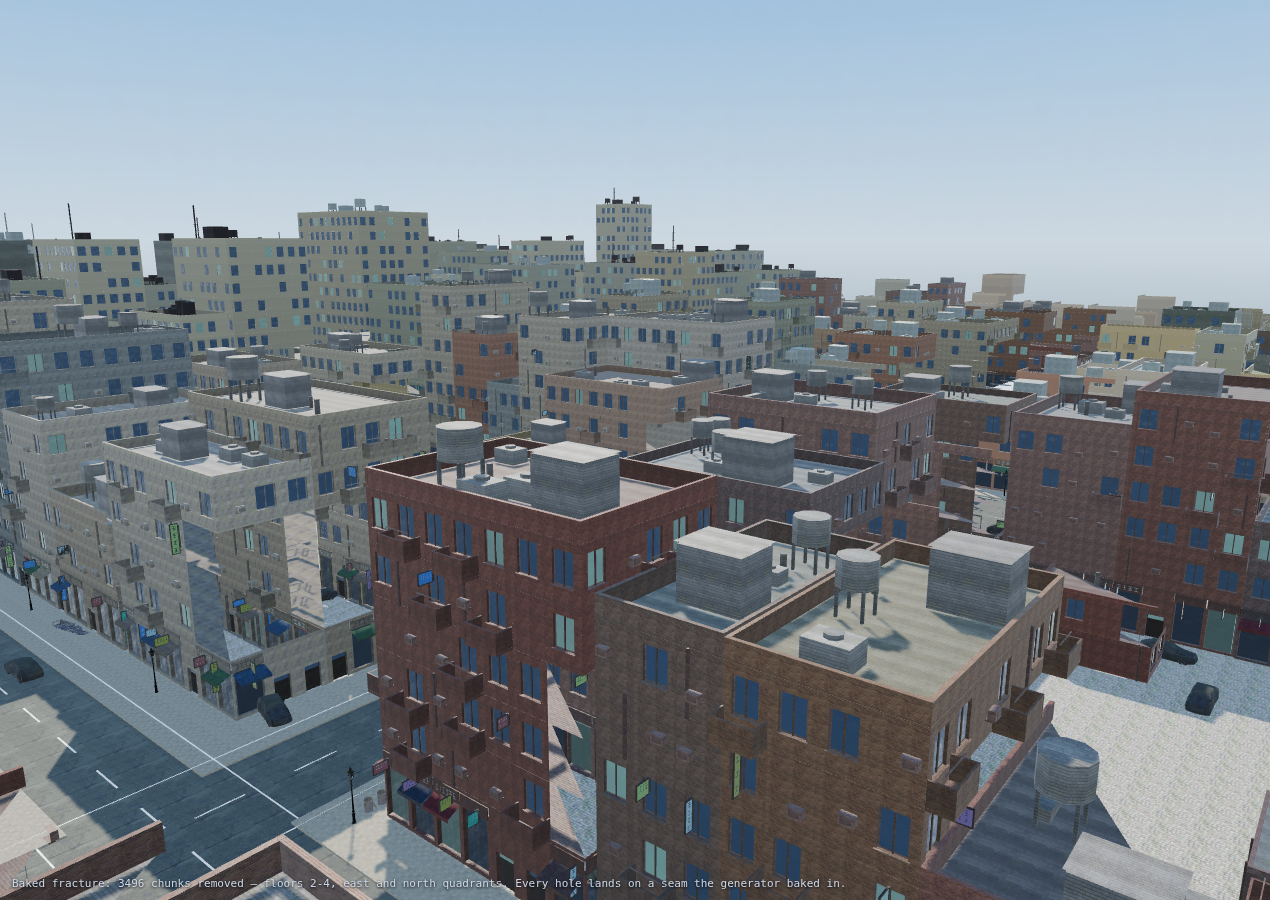
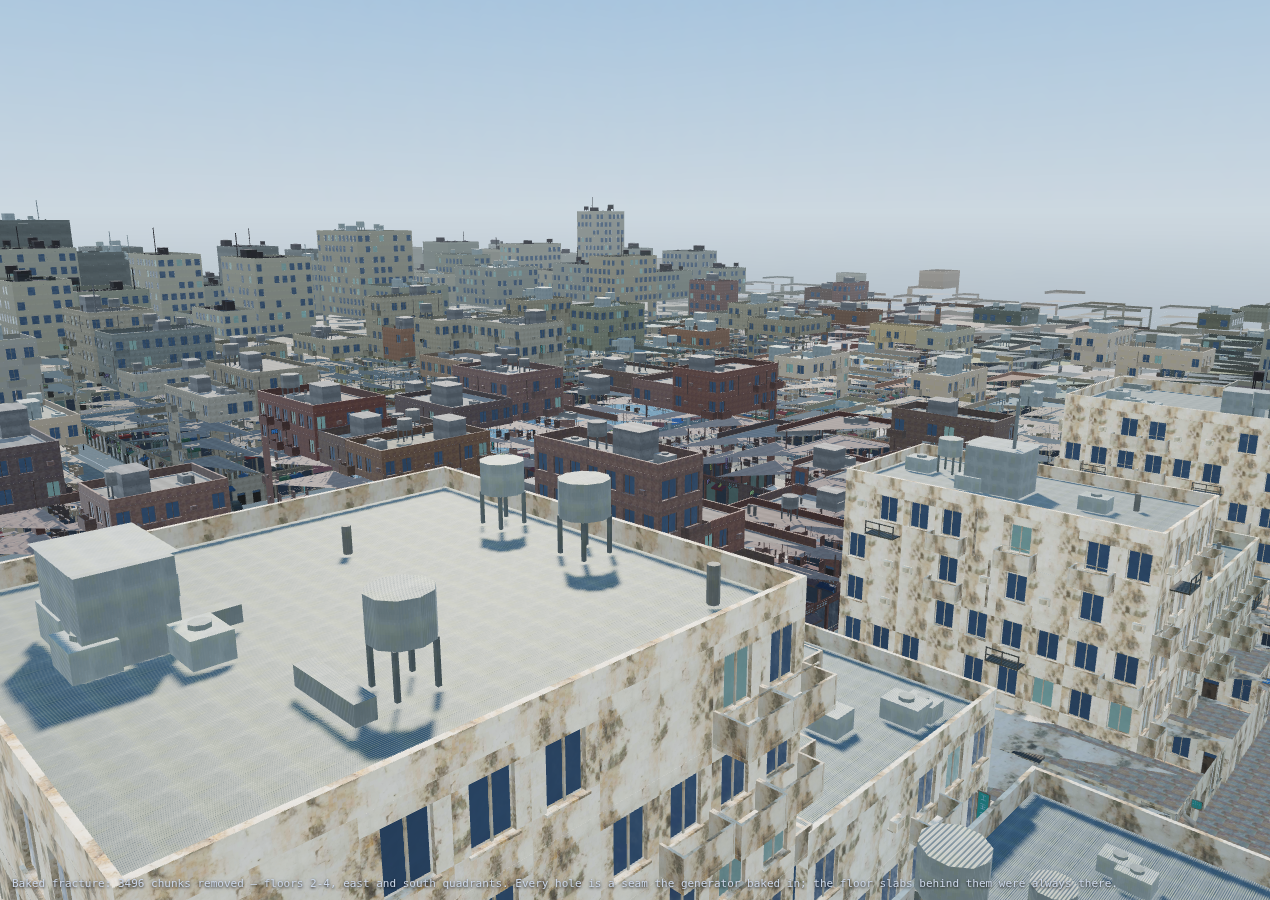
City Z: real signage lettering, real Poly Haven assets in the harness
Addresses four things that still read as placeholder at street level.

  Signage. Boards were flat colour rectangles, which is the loudest possible
  placeholder signal on a shotengai where dozens of them sit at eye height.
  They are now geometry: a frame, a face plate proud of it, and rows or a
  vertical column of characters built from two or three strokes each. Sign
  faces sample a single texel of the shared glazing texture, because sampling
  a whole tile printed window panes onto every shop board.

  Vehicles and props. The harness now loads the processed Poly Haven GLB kit
  through the runtime index — 26 models including `covered_car`, merging every
  part of a model into one geometry so a car keeps its wheels and still costs
  one instanced draw call. Instances are culled to a radius so a 12k-triangle
  model does not put 100 M triangles through a software rasteriser.

  Windows. 39 real KTX2 materials bound by manifest id, including the
  procedural `mat.glass.window`, plus a frame around every opening. The glass
  material is built OPAQUE in the harness: signage shares that slot, and a
  35%-opaque sign board is a ghost.

  Arcade. Painted steel members rather than bare concrete.

Also fixed: the model forward-axis convention (`yawAlong`) — the kit points
along +Z, so aligning +X parked every car broadside across the carriageway.

Claude-Session: https://claude.ai/code/session_01Eu52StAEGMiytM7UTvKy5J

diff --git a/harness/city.ts b/harness/city.ts
@@ -344,26 +344,33 @@ function makeFractureView(): IView {
 
   // Take out floors 1-3 of everything near the camera. The holes land on the
   // baked chunk seams: one floor x one facade quadrant at a time.
+  //
+  // Quadrants 0 (+X, east) and 1 (+Z, south) specifically, because the camera
+  // below looks north-west and those are the two faces it can see. Destroying
+  // the far side of every building is a demonstration of nothing.
   let destroyedChunks = 0;
   for (const blockMesh of built.blockMeshes) {
     for (const [buildingId, layout] of Object.entries(blockMesh.fractures)) {
       for (const chunk of layout.chunks) {
         if (chunk.floor < 1 || chunk.floor > 3) continue;
-        if (chunk.quadrant !== 0 && chunk.quadrant !== 3) continue;
+        if (chunk.quadrant !== 0 && chunk.quadrant !== 1) continue;
         destroyFractureChunk(blockMesh, buildingId, chunk.index);
         destroyedChunks++;
       }
     }
   }
-  const camera = new THREE.PerspectiveCamera(52, aspect(), 0.2, 1200);
-  camera.position.set(148, 34, -268);
-  camera.lookAt(86, 12, -344);
+  // Far enough back to frame a whole block: the east and south faces of the
+  // parcel in chunk (1,-4), which are the two the destruction pass removes.
+  const camera = new THREE.PerspectiveCamera(50, aspect(), 0.2, 1200);
+  camera.position.set(238, 46, -238);
+  camera.lookAt(140, 12, -338);
   return {
     built,
     camera,
     label:
       `Baked fracture: ${destroyedChunks} chunks removed — floors 2-4, east and ` +
-      `north quadrants. Every hole lands on a seam the generator baked in.`,
+      `south quadrants. Every hole is a seam the generator baked in; the floor ` +
+      `slabs behind them were always there.`,
   };
 }
 
